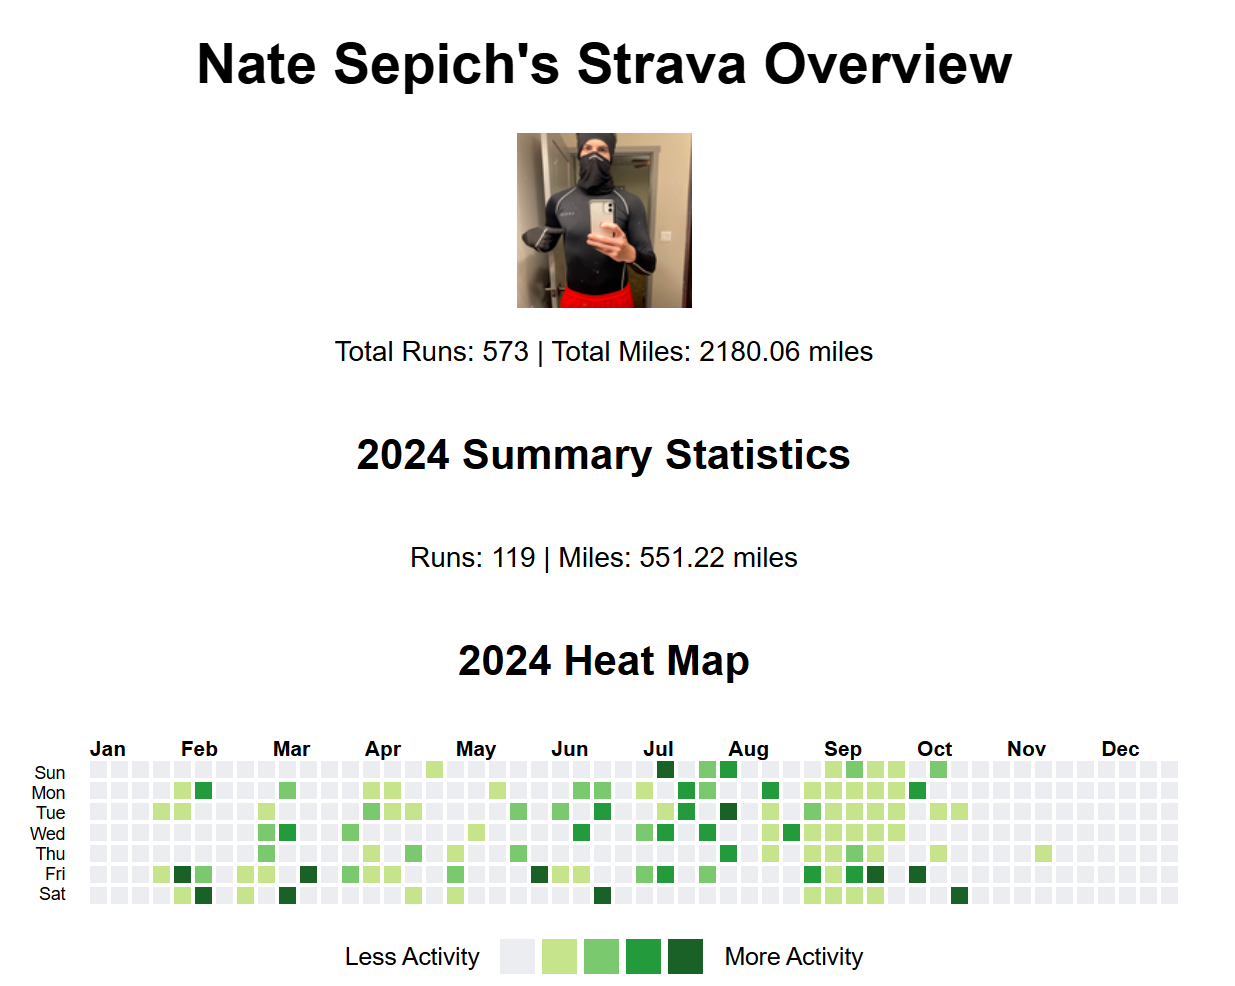
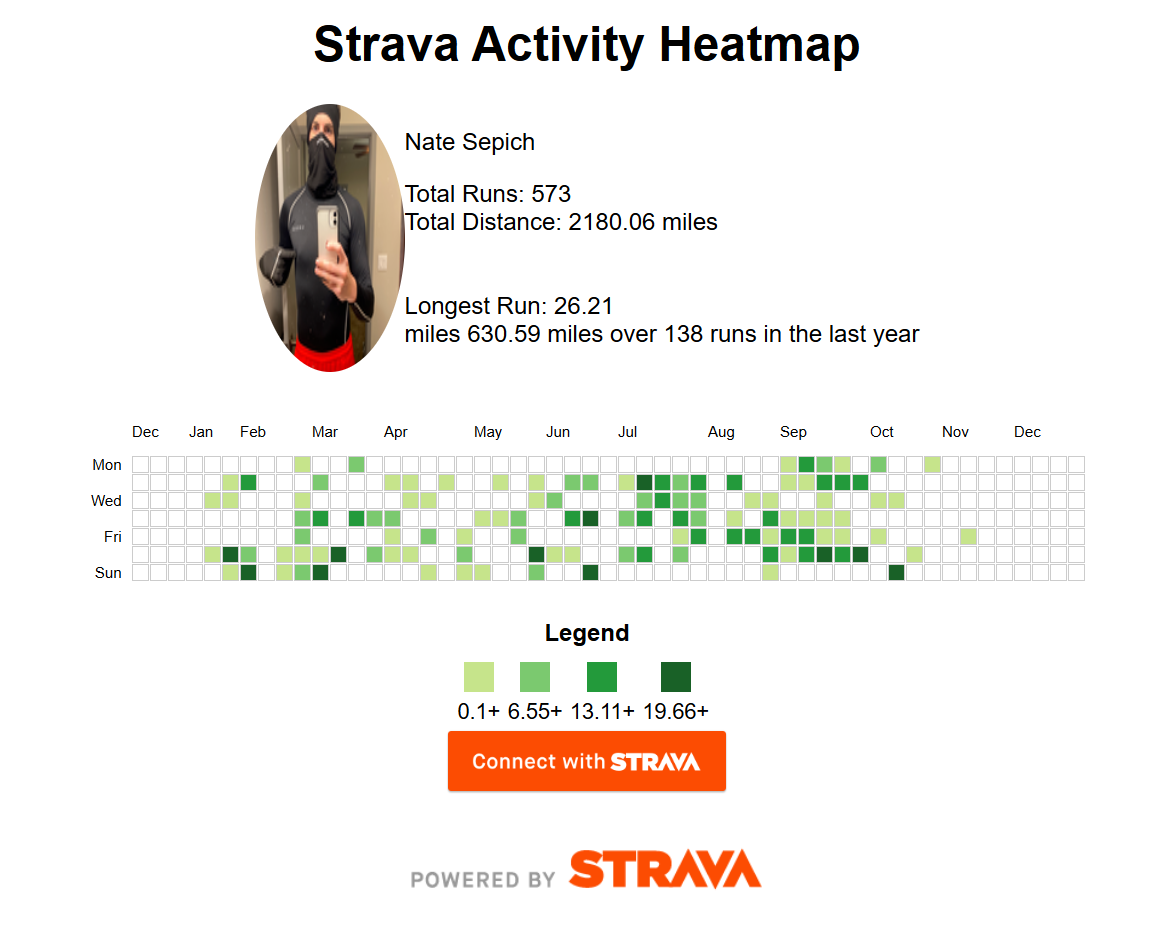
fix: enhance layout and visibility of profile section and legend in Strava heatmap

diff --git a/index.html b/index.html
@@ -97,7 +97,7 @@
         .legend {
             display: flex;
             align-items: center;
-            margin-top: 5px; /* Increased margin-top to move the legend down by 20px */
+            margin-top: 35px; /* Increased margin-top to move the legend down by 20px */
             font-size: 0.9em; /* Make legend text one size smaller */
         }
 
@@ -135,47 +135,54 @@
         .powered-by-strava {
             margin-top: 20px;
         }
+
+        .hidden {
+            display: none;
+        }
     </style>
 </head>
 <body>
-    <h1>Strava Activity Heatmap</h1>
-    <div id="profile" class="profile-container" style="display: none;">
-        <img id="profile-picture" src="" alt="Profile Picture">
-        <div>
-            <p id="profile-name"></p>
-            <p id="profile-summary"></p>
+    <header>
+        <h1>Strava Activity Heatmap</h1>
+    </header>
+    <main>
+        <section id="profile" class="profile-container hidden">
+            <img id="profile-picture" src="" alt="Profile Picture">
+            <div>
+                <p id="profile-name"></p>
+                <p id="profile-summary"></p>
+            </div>
+        </section>
+        <p id="data-status"></p>
+        <div class="heatmap-container">
+            <div class="y-axis">
+                <div></div>
+                <div>Mon</div>
+                <div></div>
+                <div>Wed</div>
+                <div></div>
+                <div>Fri</div>
+                <div></div>
+                <div>Sun</div>
+            </div>
+            <div>
+                <div class="month-label-container" id="month-label-container"></div>
+                <div class="heatmap" id="heatmap"></div>
+            </div>
         </div>
-    </div>
-    <p id="data-mode"></p>
-    <div class="heatmap-container">
-        <div class="y-axis">
-            <div></div>
-            <div>Mon</div>
-            <div></div>
-            <div>Wed</div>
-            <div></div>
-            <div>Fri</div>
-            <div></div>
-            <div>Sun</div>
+        <div class="legend-title">Legend</div>
+        <div class="legend">
+            <div class="legend-container" id="legend"></div>
         </div>
-        <div>
-            <div class="month-label-container" id="month-label-container"></div>
-            <div class="heatmap" id="heatmap"></div>
+        <div class="authorize-container">
+            <a id="authorize" href="https://www.strava.com/oauth/authorize?client_id=143068&redirect_uri=https%3A%2F%2Fnate-sepich.github.io%2Fstrava-gh-viz%2Foauth%2Fcallback&response_type=code&scope=read_all,profile:read_all,activity:read_all">
+                <img src="components/btn_strava_connectwith_orange@2x.png" alt="Connect with Strava" class="btn-strava">
+            </a>
         </div>
-    </div>
-    <div class="legend-title">Legend</div>
-    <div class="legend">
-        <div class="legend-container" id="legend"></div>
-    </div>
-    <div class="authorize-container">
-        <a id="authorize" href="https://www.strava.com/oauth/authorize?client_id=143068&redirect_uri=https%3A%2F%2Fnate-sepich.github.io%2Fstrava-gh-viz%2Foauth%2Fcallback&response_type=code&scope=read_all,profile:read_all,activity:read_all">
-            <img src="components/btn_strava_connectwith_orange@2x.png" alt="Connect with Strava" style="height: 48px;">
-        </a>
-    </div>
-    <div class="powered-by-strava">
-        <img src="components/api_logo_pwrdBy_strava_horiz_light.png" alt="Powered by Strava" style="height: 48px;">
-    </div>
-
+        <div class="powered-by-strava">
+            <img src="components/api_logo_pwrdBy_strava_horiz_light.png" alt="Powered by Strava" style="height: 48px;">
+        </div>
+    </main>
     <!-- Hidden fields for tokens -->
     <input type="hidden" id="access_token">
     <input type="hidden" id="refresh_token">
@@ -234,7 +241,7 @@
 
             while (currentDate <= endDate) {
                 const key = `${currentDate.getMonth() + 1}-${currentDate.getDate()}`;
-                const distance = isMetric ? Math.random() * 16 : Math.random() * 10; // Random distance between 0 and 16 km or 0 and 10 miles
+                const distance = isMetric ? Math.random() * 16 : Math.random() * 10; // Random distance
                 runMap[key] = distance;
                 overview.totalRuns += distance > 0 ? 1 : 0;
                 overview.totalDistance += distance;
@@ -257,7 +264,9 @@
             const expiresAt = parseInt(document.getElementById('expires_at').value, 10);
             const currentTime = Math.floor(Date.now() / 1000);
 
-            let runMap, dataMode, profileData, athleteStats, isMetric, overview;
+            let runMap, dataStatus, profileData, athleteStats, isMetric, overview;
+            const authorizeContainer = document.querySelector('.authorize-container');
+
             if (accessToken && expiresAt > currentTime) {
                 const data = await fetchStravaData(accessToken, startDate, now);
                 if (data) {
@@ -265,35 +274,45 @@
                     profileData = data.profile;
                     athleteStats = data.stats;
                     isMetric = data.isMetric;
-                    dataMode = "";
+                    dataStatus = "";
+                    authorizeContainer.classList.add('hidden');
                 } else {
                     ({ runMap, overview } = generateDummyRunMap(startDate, now, isMetric));
-                    dataMode = "Error fetching Strava data. Displaying dummy data.";
+                    dataStatus = "Error fetching Strava data. Displaying dummy data.";
                 }
             } else {
                 ({ runMap, overview } = generateDummyRunMap(startDate, now, isMetric));
-                dataMode = "Displaying dummy data. Please authorize Strava for real data.";
+                dataStatus = "Displaying dummy data. Please authorize Strava for real data.";
+                authorizeContainer.classList.remove('hidden');
             }
 
-            document.getElementById('data-mode').textContent = dataMode;
+            document.getElementById('data-status').textContent = dataStatus;
 
             if (profileData) {
                 document.getElementById('profile-picture').src = profileData.profile;
                 document.getElementById('profile-name').textContent = profileData.firstname + ' ' + profileData.lastname;
-                document.getElementById('profile').style.display = 'flex';
+                document.getElementById('profile').classList.remove('hidden');
 
                 if (athleteStats && athleteStats.all_run_totals) {
                     const distanceUnit = isMetric ? 'km' : 'miles';
                     const totalDistance = Object.values(runMap).reduce((acc, distance) => acc + distance, 0);
                     const totalRuns = Object.values(runMap).filter(distance => distance > 0).length;
-                    document.getElementById('profile-summary').innerHTML = `Total Runs: ${athleteStats.all_run_totals.count}<br>Total Distance: ${(athleteStats.all_run_totals.distance / (isMetric ? 1000 : 1609.34)).toFixed(2)} ${distanceUnit}<br> <br> <br>Longest Run: ${Math.max(...Object.values(runMap)).toFixed(2)} <br> ${distanceUnit} ${totalDistance.toFixed(2)} ${distanceUnit} over ${totalRuns} runs in the last year`;
+                    document.getElementById('profile-summary').innerHTML = 
+                        `Total Runs: ${athleteStats.all_run_totals.count}<br>` +
+                        `Total Distance: ${(athleteStats.all_run_totals.distance / (isMetric ? 1000 : 1609.34)).toFixed(2)} ${distanceUnit}<br> <br> <br>` +
+                        `Longest Run: ${Math.max(...Object.values(runMap)).toFixed(2)} <br> ${distanceUnit} ` +
+                        `${totalDistance.toFixed(2)} ${distanceUnit} over ${totalRuns} runs in the last year`;
                 }
             } else {
                 const distanceUnit = isMetric ? 'km' : 'miles';
                 document.getElementById('profile-picture').src = 'components/profile_example.png'; // Example profile image
                 document.getElementById('profile-name').textContent = 'Example Data';
-                document.getElementById('profile-summary').innerHTML = `Total Runs: ${overview.totalRuns}<br>Total Distance: ${overview.totalDistance.toFixed(2)} ${distanceUnit}<br>Longest Run: ${overview.longestRun.toFixed(2)} ${distanceUnit}<br>${overview.totalDistance.toFixed(2)} ${distanceUnit} over ${overview.totalRuns} runs in the last year`;
-                document.getElementById('profile').style.display = 'flex';
+                document.getElementById('profile-summary').innerHTML = 
+                    `Total Runs: ${overview.totalRuns}<br>` +
+                    `Total Distance: ${overview.totalDistance.toFixed(2)} ${distanceUnit}<br>` +
+                    `Longest Run: ${overview.longestRun.toFixed(2)} ${distanceUnit}<br>` +
+                    `${overview.totalDistance.toFixed(2)} ${distanceUnit} over ${overview.totalRuns} runs in the last year`;
+                document.getElementById('profile').classList.remove('hidden');
             }
 
             displayHeatmap(runMap, isMetric);
@@ -375,7 +394,7 @@
             const step = maxDistance / 4;
 
             const legendItems = [
-                { color: '#c6e48b', label: `0.1+` },
+                { color: '#c6e48b', label: '0.1+' },
                 { color: '#7bc96f', label: `${step.toFixed(2).replace(/^0+/, '')}+` },
                 { color: '#239a3b', label: `${(step * 2).toFixed(2).replace(/^0+/, '')}+` },
                 { color: '#196127', label: `${(step * 3).toFixed(2).replace(/^0+/, '')}+` },
@@ -400,5 +419,9 @@
 
         document.addEventListener('DOMContentLoaded', initializeHeatmap);
     </script>
+    <footer class="temp-ai-footer">
+        <img src="components/temp-ai.png" alt="temp-ai logo">
+        A <strong>temp-ai</strong> tool
+    </footer>
 </body>
 </html>
